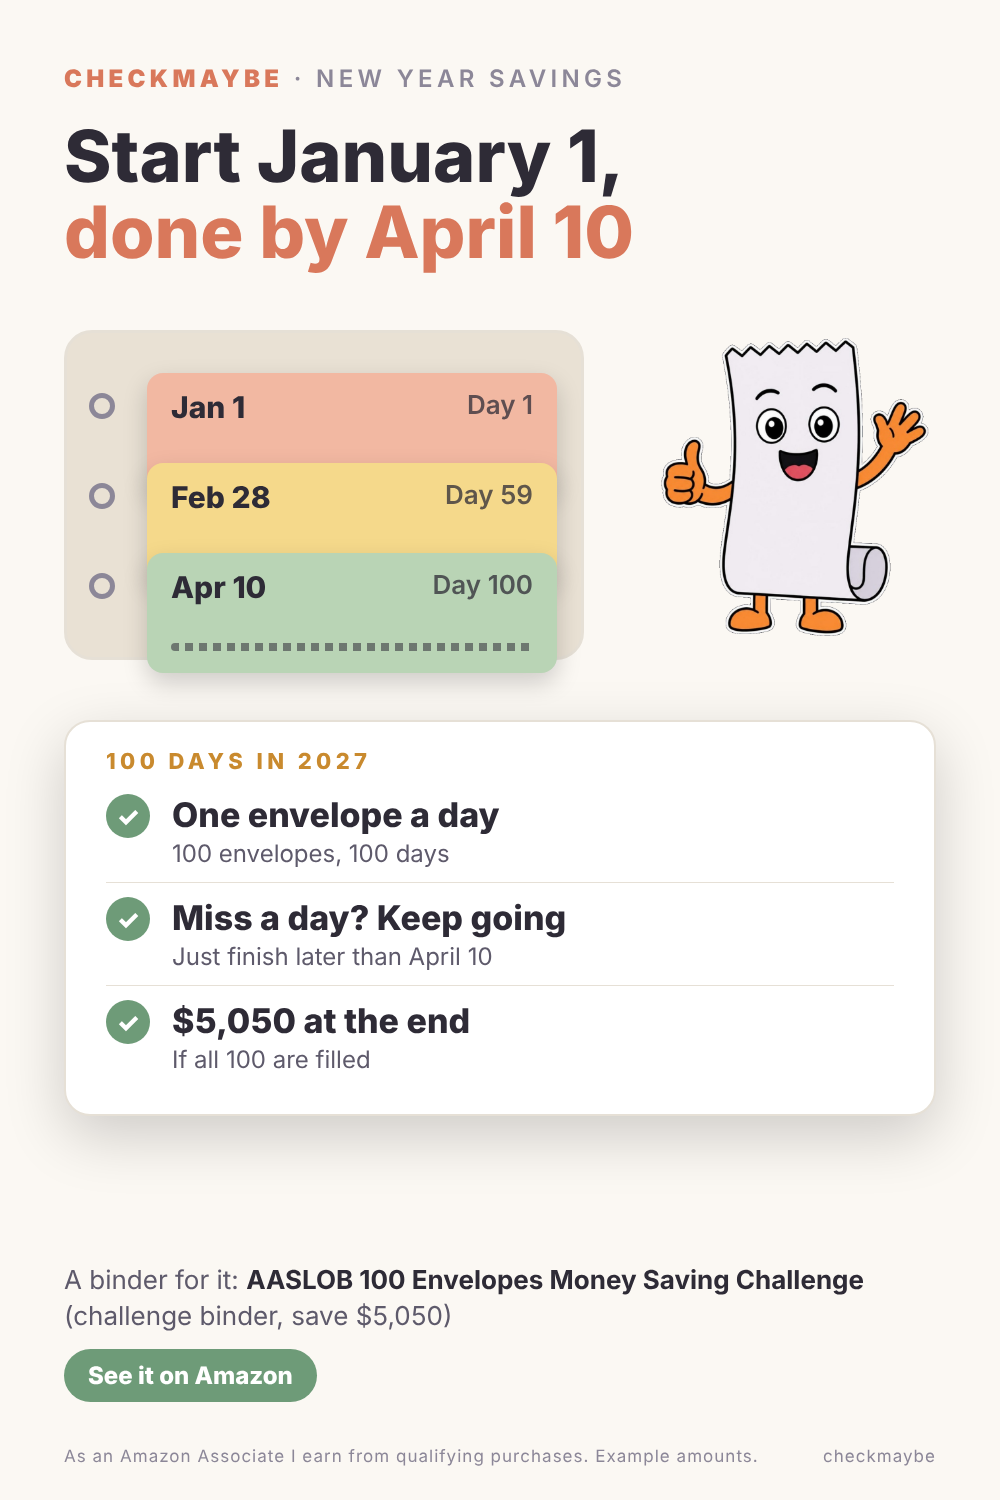
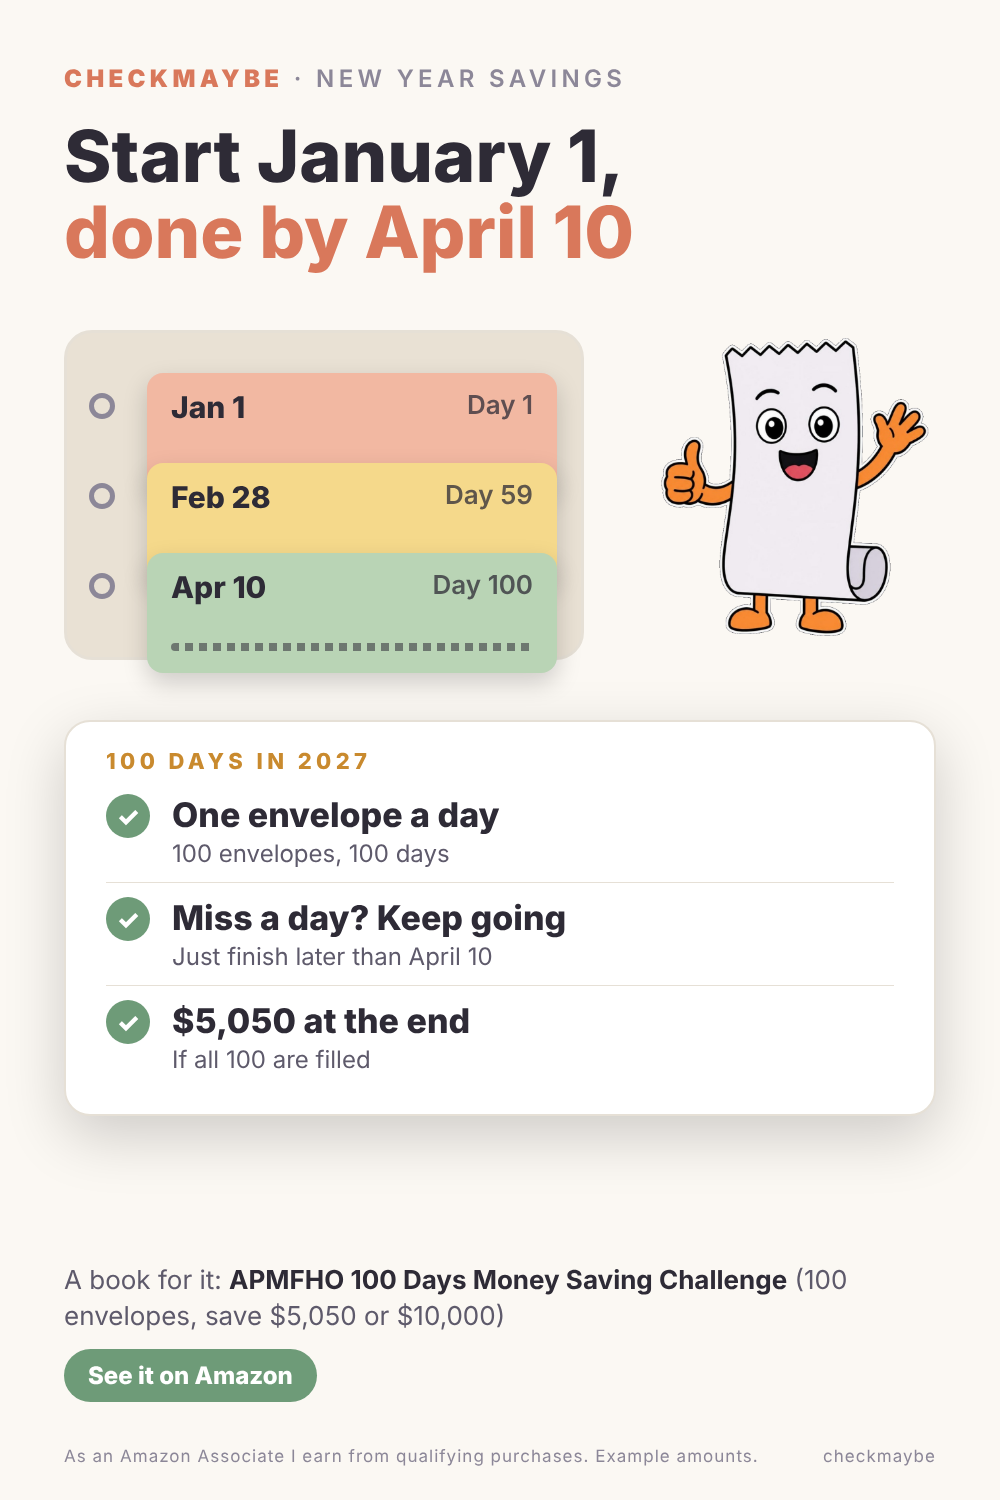
Amazon pins az6, az9: switch to APMFHO savings challenge (J's pick) with link
Claude-Session: https://claude.ai/code/session_012dBA7SqmaqwCRXrXc8dwP2

Changed region(s): [[0.062, 0.828, 0.868, 0.8893]]

diff --git a/content/pinterest/2026-11/build_pins_v15_amazon.py b/content/pinterest/2026-11/build_pins_v15_amazon.py
@@ -89,7 +89,7 @@ PINS = [
          rows=[("Each envelope has a number", "1 to 100: put in that many dollars"),
                ("Fill one when you can", "In any order, a small one on tight weeks"),
                ("All 100 filled = $5,050", "1 + 2 + 3 ... + 100")],
-         pick='A binder for it: <b>AASLOB 100 Envelopes Money Saving Challenge</b> (challenge binder, save $5,050)'),
+         pick='A book for it: <b>APMFHO 100 Days Money Saving Challenge</b> (100 envelopes, save $5,050 or $10,000)'),
     dict(id="az7", slug="savings-challenge", themes=["light"], art=f"{A3}/calc.jpg", kicker="Savings challenge",
          h1="$5,050 too much?<br><em>Do 50 envelopes</em>",
          envs=[("Envelope #1", "$1"), ("Envelope #25", "$25"), ("Envelope #50", "$50")],
@@ -113,7 +113,7 @@ PINS = [
          rows=[("One envelope a day", "100 envelopes, 100 days"),
                ("Miss a day? Keep going", "Just finish later than April 10"),
                ("$5,050 at the end", "If all 100 are filled")],
-         pick='A binder for it: <b>AASLOB 100 Envelopes Money Saving Challenge</b> (challenge binder, save $5,050)'),
+         pick='A book for it: <b>APMFHO 100 Days Money Saving Challenge</b> (100 envelopes, save $5,050 or $10,000)'),
     dict(id="az10", slug="savings-challenge", themes=["light"], art=f"{A2}/asterisk.jpg", kicker="Savings challenge",
          h1="Tight week?<br><em>Pick a small envelope</em>",
          envs=[("Payday week", "#88"), ("Normal week", "#40"), ("Tight week", "#3")],

diff --git a/content/pinterest/2026-11/pins-v15-amazon.md b/content/pinterest/2026-11/pins-v15-amazon.md
@@ -12,10 +12,10 @@ Posting (J 2026-11-20): 2 to 3 pins a day to build volume. Mix product types eac
 | az3 | Card bill higher than expected? | Antner https://www.amazon.com/dp/B08LSKL338 (J's pick, 2026-11-20) | `https://www.amazon.com/dp/B08LSKL338?th=1&linkCode=ll2&tag=checkmaybe-20&linkId=61de726983dc13a6ada8f241097170b2` |
 | az4 | Payday routine, 4 steps | Rnivvi https://www.amazon.com/dp/B0BTM72R34 | `<amzn.to>` |
 | az5 | Envelope empty, category done | Ginmlyda https://www.amazon.com/dp/B09D9KLNGL | `<amzn.to>` |
-| az6 | 100 envelopes = $5,050 | AASLOB https://www.amazon.com/dp/B0CL1VGX3V | `<amzn.to>` |
+| az6 | 100 envelopes = $5,050 | APMFHO 100 Days Money Saving Challenge (J's pick 2026-11-20: 4.5 stars, 912 ratings, Amazon's Choice, 500+ bought past month, $7.99) | `https://link.amazon/B03V55wCK` |
 | az7 | Do 50 envelopes ($1,275) | RONMONG https://www.amazon.com/dp/B0CT2GF177 | `<amzn.to>` |
 | az8 | One envelope a day, 100 days | GINTBN https://www.amazon.com/dp/B0FD3C5PTF | `<amzn.to>` |
-| az9 | Start Jan 1, done by Apr 10 | AASLOB (same as az6) | same as az6 |
+| az9 | Start Jan 1, done by Apr 10 | APMFHO (same as az6) | same as az6 |
 | az10 | Tight week, small envelope | RONMONG (same as az7) | same as az7 |
 | az11 | Planner that starts any month | Taja https://www.amazon.com/dp/B0C33RXLR6 | `<amzn.to>` |
 | az12 | Bills on one page | SOLIGT https://www.amazon.com/dp/B091DLSFMY | `<amzn.to>` |
@@ -23,7 +23,7 @@ Posting (J 2026-11-20): 2 to 3 pins a day to build volume. Mix product types eac
 | az14 | One pocket a month | SOLIGT (same as az12) | same as az12 |
 | az15 | 10-minute weekly check | Taja (same as az11) | same as az11 |
 
-10 links needed in total (SKYDUE, NICOOTH, Antner, Rnivvi, Ginmlyda, AASLOB, RONMONG, GINTBN, Taja, SOLIGT).
+10 links needed in total (SKYDUE, NICOOTH, Antner, Rnivvi, Ginmlyda, APMFHO, RONMONG, GINTBN, Taja, SOLIGT).
 Math on the savings pins: 1 + 2 + ... + 100 = 5,050; 1 + ... + 50 = 1,275; Jan 1, 2027 is day 1, Feb 28 day 59, Apr 10 day 100.
 
 ## Schedule (2 to 3 a day)
@@ -66,7 +66,7 @@ Disclosure line (end of every description): `As an Amazon Associate I earn from 
 
 ### az6
 - **Title:** 100 Envelope Challenge: How 100 Envelopes Add Up to $5,050
-- **Description:** Number 100 envelopes from 1 to 100 and put that many dollars in each one, in any order. Fill a small one on tight weeks and a big one on payday. When all 100 are filled you've saved $5,050 (1 + 2 + 3 ... + 100). Binder used in the example: AASLOB 100 Envelopes Money Saving Challenge binder. As an Amazon Associate I earn from qualifying purchases. #100envelopechallenge #savingschallenge #cashstuffing
+- **Description:** Number 100 envelopes from 1 to 100 and put that many dollars in each one, in any order. Fill a small one on tight weeks and a big one on payday. When all 100 are filled you've saved $5,050 (1 + 2 + 3 ... + 100). Book used in the example: APMFHO 100 Days Money Saving Challenge, 100 envelopes to save $5,050 or $10,000. As an Amazon Associate I earn from qualifying purchases. #100envelopechallenge #savingschallenge #cashstuffing
 - **Alt text:** Envelopes numbered 1, 37 and 100 with $1, $37 and $100, and how 100 envelopes add up to $5,050.
 
 ### az7
@@ -81,7 +81,7 @@ Disclosure line (end of every description): `As an Amazon Associate I earn from 
 
 ### az9
 - **Title:** New Year Savings Challenge: Start January 1, Done by April 10
-- **Description:** One envelope a day from January 1, 2027 means envelope 100 lands on April 10. Missed a day? Keep going and finish a little later. All 100 filled is $5,050. Binder in the example: AASLOB 100 Envelopes Money Saving Challenge binder. As an Amazon Associate I earn from qualifying purchases. #newyearsavings #100envelopechallenge #savingschallenge
+- **Description:** One envelope a day from January 1, 2027 means envelope 100 lands on April 10. Missed a day? Keep going and finish a little later. All 100 filled is $5,050. Book in the example: APMFHO 100 Days Money Saving Challenge, 100 envelopes to save $5,050 or $10,000. As an Amazon Associate I earn from qualifying purchases. #newyearsavings #100envelopechallenge #savingschallenge
 - **Alt text:** Timeline: January 1 day 1, February 28 day 59, April 10 day 100, with notes on the 100 envelope challenge.
 
 ### az10
